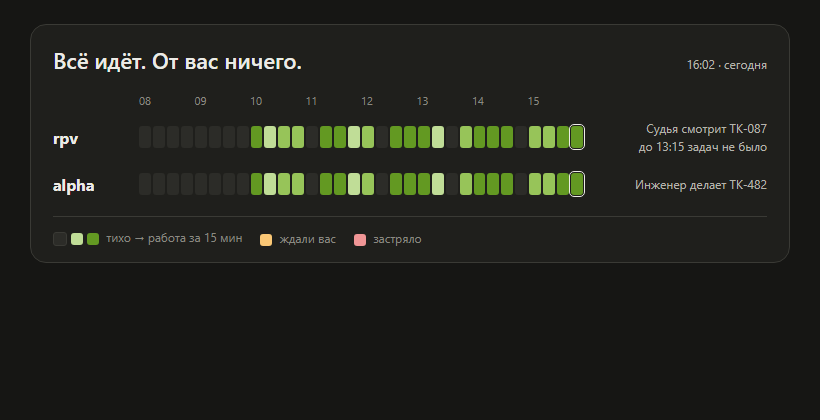
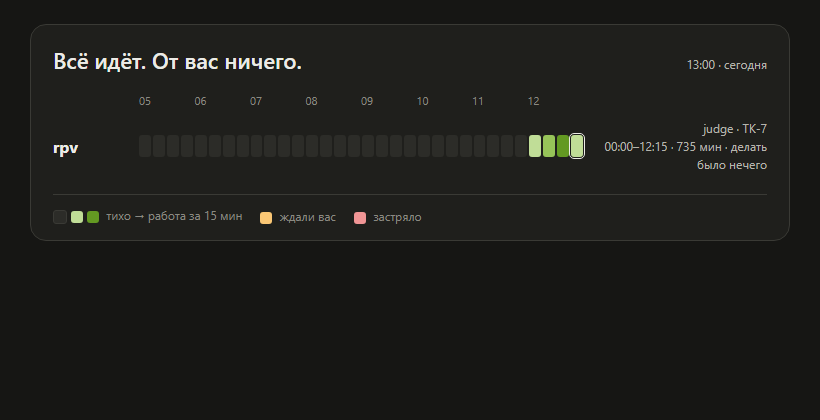
TK-096: возврат Судьи по bf6b153 — порог старости как у pulse.read, пояс файла, пустой rpv.json, закрепление, docs, скриншоты

diff --git a/.claude/board/pulse.html b/.claude/board/pulse.html
@@ -30,14 +30,16 @@ body{font-family:system-ui,sans-serif;background:var(--bg);color:var(--t1);max-w
 }
 </style>
 <div class="box" id="app">__BODY__</div>
+<div class="meta stuck" id="err" hidden style="text-align:center;margin-top:10px"></div>
 <script>
 // автообновление раз в 30 с: подменяем содержимое только если оно изменилось — без мерцания
 (function(){
-  var app=document.getElementById('app'),url=location.pathname.replace(/\/?$/,'/')+'body',last=null;
+  var app=document.getElementById('app'),err=document.getElementById('err'),url=location.pathname.replace(/\/?$/,'/')+'body',last=null;
   function tick(){
-    fetch(url,{cache:'no-store'}).then(function(r){return r.ok?r.text():null}).then(function(t){
-      if(t!==null&&t!==last){last=t;app.innerHTML=t;}
-    }).catch(function(){});
+    fetch(url,{cache:'no-store'}).then(function(r){if(!r.ok)throw new Error(r.status);return r.text()}).then(function(t){
+      err.hidden=true;
+      if(t!==last){last=t;app.innerHTML=t;}
+    }).catch(function(){err.textContent='Не удалось обновить · '+new Date().toLocaleTimeString().slice(0,5);err.hidden=false;});
   }
   setInterval(tick,30000);
 })();

diff --git a/.claude/board/test_pulse_page.py b/.claude/board/test_pulse_page.py
@@ -2,15 +2,17 @@
 Фикстуры — настоящий вывод `pulse.build` (формат шага 1, TK-095): States из dispatcher/test_pulse_tg.py."""
 import io
 import json
+import os
 import re
 import shutil
 import sys
 import tempfile
 import threading
+import time
 import unittest
 import urllib.error
 import urllib.request
-from datetime import datetime, timedelta
+from datetime import datetime, timedelta, timezone
 from http.server import ThreadingHTTPServer
 from pathlib import Path
 
@@ -84,6 +86,62 @@ class PageStates(TG.States):
         self.assertEqual(view["state"], "stuck")
         self.assertEqual({c[0] for c in view["cells"][:view["idx"] + 1]}, {"stuck"})
         self.assertEqual({c[0] for c in view["cells"][view["idx"] + 1:]}, {"none"})
+
+    def test_stale_threshold_is_the_one_of_pulse_read(self):
+        """Один порог с pulse.read (heartbeat.STALE_S = 10 мин): 5 мин — ещё идёт, 11 мин — не отвечает."""
+        self.assertEqual(V.STALE_S, V.HB.STALE_S)
+        fresh = self.view("rpv", self.ok_data(), self.at + timedelta(minutes=5))
+        self.assertEqual(fresh["state"], "ok")
+        self.assertNotIn("не отвечает", fresh["phrase"])
+        late = self.view("rpv", self.ok_data(), self.at + timedelta(minutes=11))
+        self.assertEqual(late["state"], "stuck")
+        self.assertIn("диспетчер не отвечает 11 мин", late["phrase"])
+
+    def test_stale_view_does_not_show_old_now_and_pause(self):
+        data = dict(self.ok_data(), pause="12:00–12:45 · 45 минут · тишина")
+        self.assertIn("judge · TK-7", self.render(data))
+        html = self.render(data, now=self.at + timedelta(minutes=11))
+        self.assertNotIn("judge · TK-7", html)
+        self.assertNotIn("12:00–12:45", html)
+        self.assertIn("диспетчер не отвечает", html)
+
+    def test_cell_and_clock_follow_the_zone_of_the_file_not_of_the_server(self):
+        """Файл проекта в +04:00 (13:00 — клетка 52), сервер в UTC (09:03): клетка и часы — проектные."""
+        project_zone = self.at.tzinfo
+        self.assertEqual(self.at.utcoffset(), timedelta(hours=4))
+        server_now = (self.at + timedelta(minutes=3)).astimezone(timezone.utc)
+        view = V.normalise("rpv", self.ok_data(), server_now)
+        self.assertEqual((view["idx"], view["zone"]), (self.cur, project_zone))
+        html = S.body_html([view], server_now)
+        self.assertIn("cur", row_classes(html)[-1])
+        self.assertIn("13:03 · сегодня", html)
+        self.assertNotIn("09:03", html)
+
+    def test_stale_day_is_judged_in_the_zone_of_the_file(self):
+        """Файл 23:50 (+04:00), сервер в UTC 20:20 того же UTC-дня, у проекта уже 00:20 следующих суток: клетки прошлых суток стёрты."""
+        data = self.ok_data()
+        data["generated"] = self.at.replace(hour=23, minute=50).isoformat()
+        server_now = (self.at + timedelta(days=1)).replace(hour=0, minute=20).astimezone(timezone.utc)
+        self.assertEqual(server_now.date(), (self.at.replace(hour=23, minute=50)).astimezone(timezone.utc).date())
+        view = V.normalise("rpv", data, server_now)
+        self.assertEqual({c[0] for c in view["cells"][:view["idx"] + 1]}, {"stuck"})
+        self.assertEqual(view["idx"], 1)
+
+    def test_no_projects_is_not_a_green_phrase(self):
+        self.assertEqual(V.summary([]), V.NO_PROJECTS)
+        self.assertNotIn(V.OK_PHRASE, V.summary([]))
+        html = S.body_html([], self.at)
+        self.assertIn(V.NO_PROJECTS, html)
+        self.assertIn('class="phrase stuck"', html)
+
+    def test_broken_cells_and_garbage_do_not_crash(self):
+        for cells in ({"a": 1}, "x", 5, None):
+            with self.subTest(cells=cells):
+                self.assertIn("пульс не читается", self.render(dict(self.ok_data(), cells=cells)))
+        self.assertIn("пульс не читается", self.render(dict(self.ok_data(), generated=12345)))
+        junk = dict(self.ok_data(), cells=[1, "a", None, {"i": "x"}, {"i": 5, "n": "z", "c": []}, {"i": 7, "n": 2, "c": "work"}])
+        self.assertEqual(self.view("rpv", junk)["cells"][7], ("work", 2))
+        self.assertNotIn("пульс не читается", self.render(junk))
 
     def test_no_work_is_not_stuck(self):
         html = self.render(self.pulse())
@@ -160,10 +218,21 @@ class ServerTests(TG.States):
         self.assertIn("<b>invoice</b>", page)  # удалённый проект — по URL
         self.assertIn("prefers-color-scheme:dark", page)
         self.assertIn("max-width:480px", page)
+        self.assertIn("setInterval(tick,30000)", page)  # автообновление раз в 30 с
+        self.assertIn("Не удалось обновить", page)  # ошибка обновления показывается, а не глотается
         code, body = self.get("/sekret/body")
         self.assertEqual(code, 200)
         self.assertNotIn("<style", body)
         self.assertIn('<div class="head">', body)
+
+    def test_unreadable_rpv_json_is_not_all_clear(self):
+        rpv = self.proj / ".claude" / "rpv.json"
+        rpv.write_text("{не json", encoding="utf-8")
+        os.utime(rpv, (time.time() + 5, time.time() + 5))  # кэш настроек — по времени изменения
+        code, page = self.get("/sekret/")
+        self.assertEqual(code, 200)
+        self.assertIn(V.NO_PROJECTS, page)
+        self.assertNotIn(V.OK_PHRASE, page)
 
     def test_wrong_token_or_path_is_404(self):
         self.assertEqual(self.get("/wrong/")[0], 404)

diff --git a/.claude/dispatcher/pulse_view.py b/.claude/dispatcher/pulse_view.py
@@ -12,12 +12,14 @@ from datetime import datetime
 from pathlib import Path
 
 sys.path.insert(0, str(Path(__file__).resolve().parent))
+import heartbeat as HB  # noqa: E402
 import project as P  # noqa: E402
 
-STALE_S = 120  # pulse.json старше — диспетчер не отвечает (порог dispatcher_dead шага 1)
+STALE_S = HB.STALE_S  # pulse.json старше — диспетчер не отвечает; тот же порог, что в pulse.read (шаг 1)
 FETCH_TIMEOUT_S = 5.0
 CELLS = 96  # 15-минутных клеток в сутках
 OK_PHRASE = "Всё идёт. От вас ничего."
+NO_PROJECTS = "Проектов нет: ключ pulse_projects в rpv.json пуст или rpv.json не читается."
 STATES = ("ok", "owner", "stuck")
 CLASSES = ("work", "none", "owner", "stuck")
 
@@ -44,7 +46,7 @@ def projects_of(root) -> dict:
 def _cells_of(raw: dict) -> list:
     """96 клеток (класс, запусков) из `cells` шага 1: `{i, n, c, why?}`; нет клетки или класс неизвестен — ('none', 0)."""
     out = [("none", 0)] * CELLS
-    for item in raw.get("cells") or []:
+    for item in raw["cells"]:
         i = item.get("i") if isinstance(item, dict) else None
         if isinstance(i, int) and not isinstance(i, bool) and 0 <= i < CELLS:
             n = item.get("n")
@@ -58,26 +60,28 @@ def _slot(moment: datetime) -> int:
 
 def _unreadable(name: str, now: datetime) -> dict:
     return {"name": name, "state": "stuck", "phrase": f"Застряло: {name} — пульс не читается.", "now": "", "pause": "",
-            "cells": [("none", 0)] * CELLS, "idx": _slot(now), "age_s": None}
+            "cells": [("none", 0)] * CELLS, "idx": _slot(now), "age_s": None, "zone": None}
 
 
 def normalise(name: str, raw, now: datetime) -> dict:
     """Один вид проекта: name, state, phrase, now, pause, cells [(класс, запусков)] ×96, idx (текущая клетка), age_s.
-    Формат — вывод `pulse.build` (state, phrase, now, pause, cells, generated). Нет файла, `state` не из списка или `generated` не
-    время — «застряло: пульс не читается»; `generated` старше STALE_S — «застряло: диспетчер не отвечает», клетки после записи — stuck."""
-    stamp = P.parse_time(raw.get("generated"), strict=False) if isinstance(raw, dict) and raw.get("generated") else None
-    if stamp is None or stamp.tzinfo is None or raw.get("state") not in STATES:
+    Формат — вывод `pulse.build` (state, phrase, now, pause, cells, generated). Нет файла, `state` не из списка, `cells` не список или
+    `generated` не время — «застряло: пульс не читается»; `generated` старше STALE_S — «застряло: диспетчер не отвечает», клетки после
+    записи — stuck, прежние «сейчас» и пауза убраны. Сутки и клетка — по поясу `generated` (поясу проекта), не сервера."""
+    stamp = P.parse_time(raw.get("generated"), strict=False) if isinstance(raw, dict) and isinstance(raw.get("generated"), str) else None
+    if stamp is None or stamp.tzinfo is None or raw.get("state") not in STATES or not isinstance(raw.get("cells"), list):
         return _unreadable(name, now)
-    stamp = stamp.astimezone(now.tzinfo)
+    here = now.astimezone(stamp.tzinfo)
     age = max(0, int((now - stamp).total_seconds()))
     view = {"name": name, "state": raw["state"], "phrase": str(raw.get("phrase") or OK_PHRASE), "now": str(raw.get("now") or ""),
-            "pause": str(raw.get("pause") or ""), "cells": _cells_of(raw), "idx": _slot(stamp), "age_s": age}
+            "pause": str(raw.get("pause") or ""), "cells": _cells_of(raw), "idx": _slot(stamp), "age_s": age, "zone": stamp.tzinfo}
     if age > STALE_S:
-        same_day = stamp.date() == now.date()
+        same_day = stamp.date() == here.date()
         first = view["idx"] + 1 if same_day else 0
         if not same_day:
             view["cells"] = [("none", 0)] * CELLS
-        view.update(state="stuck", phrase=f"Застряло: {name} — диспетчер не отвечает {max(1, age // 60)} мин.", idx=_slot(now))
+        view.update(state="stuck", phrase=f"Застряло: {name} — диспетчер не отвечает {max(1, age // 60)} мин.", now="", pause="",
+                    idx=_slot(here))
         for i in range(first, view["idx"] + 1):
             view["cells"][i] = ("stuck", 0)
     return view
@@ -89,7 +93,9 @@ def load_all(root, now: datetime | None = None, fetch=urllib.request.urlopen) ->
 
 
 def summary(views: list) -> str:
-    """Фраза-итог: застряло важнее «нужны вы», иначе «Всё идёт»; несколько — первая и счёт остальных."""
+    """Фраза-итог: застряло важнее «нужны вы», иначе «Всё идёт»; несколько — первая и счёт остальных. Проектов нет — не «Всё идёт»."""
+    if not views:
+        return NO_PROJECTS
     bad = [v for v in views if v["state"] == "stuck"] + [v for v in views if v["state"] == "owner"]
     if not bad:
         return OK_PHRASE

diff --git a/.claude/dispatcher/pulse_tg.py b/.claude/dispatcher/pulse_tg.py
@@ -1,7 +1,8 @@
 """Пульс (В-38), шаг 2: одно закреплённое сообщение в Telegram. Диспетчер правит его (editMessageText), новых не шлёт.
 
 Первая строка — фраза-итог, дальше строка на проект (`pulse_view.tg_text`). Правка — только при смене текста и не чаще раза в
-минуту; `message_id` лежит в `state.json` (`pulse_tg`); сообщения нет — создаётся и закрепляется один раз. Запись «отправлено» в
+минуту; `message_id` лежит в `state.json` (`pulse_tg`); сообщения нет — создаётся и закрепляется (сбой закрепления повторяется до
+PIN_TRIES раз, пересозданное сообщение закрепляется заново). Запись «отправлено» в
 notify.log — только при ответе API `ok` (TK-092). Включает ключ `pulse_telegram` в `.claude/rpv.json`; проекты — `pulse_projects`.
 """
 from __future__ import annotations
@@ -21,6 +22,7 @@ import pulse_view as V  # noqa: E402
 API = "https://api.telegram.org/bot{token}/{method}"
 MIN_GAP_S = 60  # не чаще раза в минуту: и чтение проектов, и правка
 TIMEOUT_S = 15.0
+PIN_TRIES = 3  # закрепить не вышло (нет прав) — повтор раз в минуту, но не бесконечно
 
 
 def call(method: str, payload: dict, opener=urllib.request.urlopen) -> tuple:
@@ -41,6 +43,18 @@ def call(method: str, payload: dict, opener=urllib.request.urlopen) -> tuple:
     return (data.get("result") or {}, "") if data.get("ok") else (None, str(data.get("description") or "ответ без ok"))
 
 
+def _pin(project, st: dict, opener) -> None:
+    """Закрепить сообщение, если ещё не закреплено и попытки не вышли; `pinned` ставит только ответ ok."""
+    if st.get("pinned") or st.get("pin_tries", 0) >= PIN_TRIES:
+        return
+    st["pin_tries"] = st.get("pin_tries", 0) + 1
+    _, err = call("pinChatMessage", {"chat_id": P.env("TG_CHAT"), "message_id": st["message_id"], "disable_notification": True}, opener)
+    if err:
+        N._log(project, f"не закреплено ({err}), попытка {st['pin_tries']} из {PIN_TRIES}")
+    else:
+        st["pinned"] = True
+
+
 def sync(project, state: dict, views: list, now: datetime, opener=urllib.request.urlopen) -> str:
     """Привести сообщение к `views`: 'sent' (создано и закреплено), 'edited', 'same' (текст тот же), 'wait' (рано),
     'off' (Telegram не настроен), 'failed' (сбой, повтор через минуту)."""
@@ -54,6 +68,7 @@ def sync(project, state: dict, views: list, now: datetime, opener=urllib.request
     text = V.tg_text(views)[:N.LIMIT]
     chat = P.env("TG_CHAT")
     if st.get("message_id") and st.get("text") == text:
+        _pin(project, st, opener)
         return "same"
     if st.get("message_id"):
         _, err = call("editMessageText", {"chat_id": chat, "message_id": st["message_id"], "text": text}, opener)
@@ -61,22 +76,20 @@ def sync(project, state: dict, views: list, now: datetime, opener=urllib.request
             st["text"] = text
             if not err:
                 N._log(project, f"отправлено: правка пульса: {text[:120]}")
+            _pin(project, st, opener)
             return "edited" if not err else "same"
         N._log(project, f"не отправлено (правка пульса: {err}): {text[:120]}")
         if "not found" in err or "can't be edited" in err:
-            st.pop("message_id", None)  # сообщение удалено владельцем — следующая попытка создаст новое
+            for key in ("message_id", "pinned", "pin_tries"):
+                st.pop(key, None)  # сообщение удалено владельцем — следующая попытка создаст и закрепит новое
         return "failed"
     sent, err = call("sendMessage", {"chat_id": chat, "text": text, "disable_notification": True}, opener)
     if err or not sent.get("message_id"):
         N._log(project, f"не отправлено (пульс: {err or 'нет message_id'}): {text[:120]}")
         return "failed"
-    st.update(message_id=sent["message_id"], text=text)
+    st.update(message_id=sent["message_id"], text=text, pinned=False, pin_tries=0)
     N._log(project, f"отправлено: пульс создан: {text[:120]}")
-    if not st.get("pinned"):
-        _, err = call("pinChatMessage", {"chat_id": chat, "message_id": sent["message_id"], "disable_notification": True}, opener)
-        st["pinned"] = True  # закрепление — один раз; сбой (нет прав) не повторяется, сообщение и так есть
-        if err:
-            N._log(project, f"не закреплено ({err})")
+    _pin(project, st, opener)
     return "sent"
 
 

diff --git a/.claude/dispatcher/test_pulse_tg.py b/.claude/dispatcher/test_pulse_tg.py
@@ -137,7 +137,31 @@ class PulseTelegram(States):
         self.api.fail.clear()
         self.api.calls.clear()
         self.assertEqual(self.sync(self.ok, 6), "sent")
-        self.assertEqual(self.api.methods(), ["sendMessage"])  # закреплено уже было — второй раз не закрепляем
+        self.assertEqual(self.api.methods(), ["sendMessage", "pinChatMessage"])  # пересозданное сообщение закрепляется заново
+        self.assertTrue(self.state["pulse_tg"]["pinned"])
+        self.api.calls.clear()
+        self.assertEqual(self.sync(self.ok, 8), "same")
+        self.assertEqual(self.api.calls, [])  # закреплено — больше не трогаем
+
+    def test_pin_failure_is_retried_a_few_times_then_stops(self):
+        self.api.fail["pinChatMessage"] = "Bad Request: not enough rights"
+        self.assertEqual(self.sync(self.ok), "sent")
+        self.assertFalse(self.state["pulse_tg"]["pinned"])
+        for minute in (2, 4):
+            self.assertEqual(self.sync(self.ok, minute), "same")
+        self.assertEqual(self.api.methods().count("pinChatMessage"), G.PIN_TRIES)
+        self.api.calls.clear()
+        self.assertEqual(self.sync(self.ok, 6), "same")
+        self.assertEqual(self.api.calls, [])  # попытки вышли — молчим
+        self.assertIn("не закреплено (Bad Request: not enough rights), попытка 3 из 3", self.log())
+
+    def test_pin_retry_succeeds_after_failure(self):
+        self.api.fail["pinChatMessage"] = "Bad Request: not enough rights"
+        self.sync(self.ok)
+        self.api.fail.clear()
+        self.assertEqual(self.sync(self.ok, 2), "same")
+        self.assertTrue(self.state["pulse_tg"]["pinned"])
+        self.assertEqual(self.api.methods()[-1], "pinChatMessage")
 
     def test_create_failure_sends_nothing_and_remembers_nothing(self):
         self.api.fail["sendMessage"] = "Bad Request: chat not found"

diff --git a/.claude/board/pulse_server.py b/.claude/board/pulse_server.py
@@ -81,10 +81,12 @@ def hours(idx: int) -> str:
 def body_html(views: list, now: datetime) -> str:
     """Содержимое рамки: фраза и часы, часы окна, по строке на проект, легенда."""
     states = {v["state"] for v in views}
-    cls = "stuck" if "stuck" in states else "you" if "owner" in states else ""
+    cls = "stuck" if "stuck" in states or not views else "you" if "owner" in states else ""
     idx = max((v["idx"] for v in views), default=0)
+    zone = next((v["zone"] for v in views if v.get("zone")), None)  # часы — по поясу проектов, не сервера
+    shown = now.astimezone(zone) if zone else now
     return (f'<div class="head"><div class="phrase {cls}">{escape(V.summary(views))}</div>'
-            f'<div class="meta">{now:%H:%M} · сегодня</div></div>'
+            f'<div class="meta">{shown:%H:%M} · сегодня</div></div>'
             + (hours(idx) if views else "") + "".join(row(v) for v in views) + LEGEND)
 
 

diff --git a/docs/pulse.md b/docs/pulse.md
@@ -36,19 +36,25 @@
 
 Читают `pulse.json` каждого проекта в том виде, в каком его пишет шаг 1 (таблица полей выше; код чтения — `.claude/dispatcher/pulse_view.py`).
 Из полей берутся `state`, `phrase`, `now`, `pause`, `cells[].c` / `cells[].n`, `generated`; остальное (`reasons`, `owner`) страница не показывает.
-- `generated` старше 2 минут (`pulse_dead_min`) — страница сама пишет «Застряло: <имя> — диспетчер не отвечает N мин.», клетки после последней записи красные.
-- Файл не читается — «Застряло: <имя> — пульс не читается.». Машин, процессов, тикетов на верхнем уровне, истории дальше суток нет.
+- `generated` старше 10 минут (`heartbeat.STALE_S`, тот же порог, что у `pulse.read`; `pulse_dead_min` — другое: он решает, пишет ли диспетчер клетки `dispatcher_dead`) —
+  страница сама пишет «Застряло: <имя> — диспетчер не отвечает N мин.», клетки после последней записи красные, прежние «сейчас» и пауза не показываются.
+- Сутки и номер клетки считаются по поясу `generated` (поясу проекта), а не сервера страницы; часы в шапке — тоже по поясу проекта.
+- Файл не читается, `state` не из списка, `cells` не список, `generated` не время — «Застряло: <имя> — пульс не читается.». Список проектов пуст
+  или `rpv.json` не читается — «Проектов нет: …» красным, не «Всё идёт». Машин, процессов, тикетов на верхнем уровне, истории дальше суток нет.
 
 ### Страница
 
 Один файл `.claude/board/pulse_server.py` (stdlib `http.server`) и шаблон `.claude/board/pulse.html`.
 
 ```
-PULSE_TOKEN=<длинный-ключ> python <плагин>/.claude/board/pulse_server.py --project <проект> --host 0.0.0.0 --port 8787
+PULSE_TOKEN=<длинный-ключ> python <плагин>/.claude/board/pulse_server.py --project <проект> --host 127.0.0.1 --port 8787
 ```
 
-- Адрес `http://<сервер>:8787/<ключ>/`; другой путь — 404. `/<ключ>/body` — только содержимое (его берёт автообновление раз в 30 с:
-  подменяется, лишь если изменилось, мерцания нет). Ключ без `--token`/`PULSE_TOKEN` — сервер не стартует.
+- Слушает только `127.0.0.1`, наружу — через обратный прокси с TLS (nginx/caddy): ключ лежит в пути, по голому HTTP он виден всем на дороге.
+  `--host 0.0.0.0` без TLS-прокси не использовать.
+- Адрес за прокси `https://<домен>/<ключ>/` (напрямую на машине — `http://127.0.0.1:8787/<ключ>/`); другой путь — 404. `/<ключ>/body` — только содержимое (его берёт автообновление раз в 30 с:
+  подменяется, лишь если изменилось, мерцания нет; не вышло обновить — под рамкой красная строка «Не удалось обновить · чч:мм»). Ключ без
+  `--token`/`PULSE_TOKEN` — сервер не стартует.
 - Проекты — ключ `pulse_projects` в `<проект>/.claude/rpv.json`: `{"rpv": "C:/proj/rpv/.claude/dispatcher/pulse.json",
   "invoice": "https://host.example/invoice/pulse.json"}`. Путь — файл на этой машине, `http(s)://` — простой GET (5 с).
 - Широкий экран: последние 8 часов (32 клетки), правый край — текущая клетка. Уже 480 px: сутки по 2 часа в клетке (12 клеток).
@@ -70,7 +76,7 @@ WantedBy=multi-user.target
 ```
 
 Замена старого табло: `systemctl disable --now rpv-board`, положить юнит в `/etc/systemd/system/rpv-pulse.service`,
-`systemctl enable --now rpv-pulse`; снаружи — прежний обратный прокси на порт 8787.
+`systemctl enable --now rpv-pulse`; снаружи — прежний обратный прокси (с TLS) на порт 8787.
 
 ### Закреплённое сообщение в Telegram
 
@@ -78,8 +84,9 @@ WantedBy=multi-user.target
 
 - первая строка — фраза-итог (застряло важнее «нужны вы»), дальше по строке на проект: «имя — идёт» / «имя — нужны вы: …» /
   «имя — застряло: …»;
-- сообщения нет — создаёт и закрепляет один раз, `message_id` — в `state.json` (`pulse_tg`); дальше только `editMessageText`;
-- правка — только при смене текста и не чаще раза в минуту; удалили сообщение — создастся новое;
+- сообщения нет — создаёт и закрепляет, `message_id` — в `state.json` (`pulse_tg`); дальше только `editMessageText`; закрепить не вышло
+  (нет прав) — повтор раз в минуту, всего 3 попытки;
+- правка — только при смене текста и не чаще раза в минуту; удалили сообщение — создастся новое и закрепится заново;
 - «отправлено» в `notify.log` — только при ответе API `ok`.
 
 Нужны `RPV_TG_TOKEN` и `RPV_TG_CHAT` ([configuration.md](configuration.md)). Каждый проект на этой машине пишет pulse.json в свой
